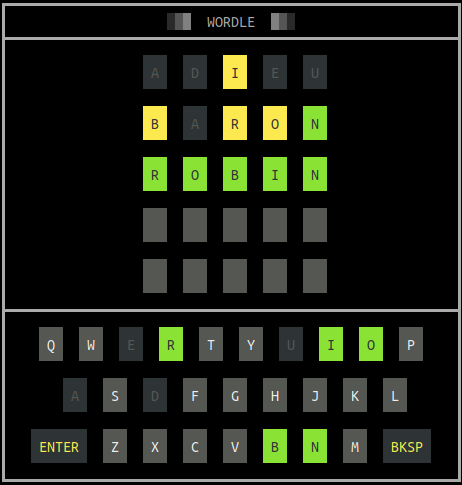
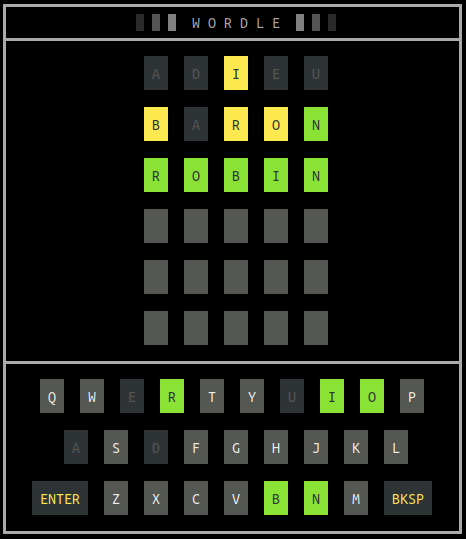
default to 6 attempts

Changed region(s): [[0.0, 0.0, 1.0, 1.0]]

diff --git a/go-wordle.go b/go-wordle.go
@@ -16,10 +16,10 @@ import (
 
 var (
 	flagAnswer      = flag.String("answer", "", "Pre-set answer if you don't want a random word")
-	flagMaxAttempts = flag.Int("max-attempts", 5, "Maximum Attempts Allowed")
-	flagMaxLength   = flag.Int("max-length", 5, "Maximum Word Length")
-	flagMinLength   = flag.Int("min-length", 5, "Minimum Word Length")
-	flagSolve       = flag.Bool("solve", false, "Solve?")
+	flagMaxAttempts = flag.Int("max-attempts", 6, "Maximum attempts allowed")
+	flagMaxLength   = flag.Int("max-length", 5, "Maximum word length")
+	flagMinLength   = flag.Int("min-length", 5, "Minimum word length")
+	flagSolve       = flag.Bool("solve", false, "Help Solve?")
 
 	colorsSpecial           = [3]text.Color{text.FgBlack, text.BgBlack, text.FgHiYellow}
 	colorsUnknown           = [3]text.Color{text.FgHiBlack, text.BgHiBlack, text.FgHiWhite}
@@ -111,7 +111,7 @@ func render(w wordle.Wordle, currAttempt wordle.Attempt) {
 	}
 
 	tw := table.NewWriter()
-	tw.AppendHeader(table.Row{"░▒▓  WORDLE  ▓▒░"})
+	tw.AppendHeader(table.Row{"░ ▒ ▓  W O R D L E  ▓ ▒ ░"})
 	tw.AppendRow(table.Row{renderWordle(w, currAttempt)})
 	tw.AppendFooter(table.Row{renderKeyboard(w)})
 	tw.SetColumnConfigs([]table.ColumnConfig{
